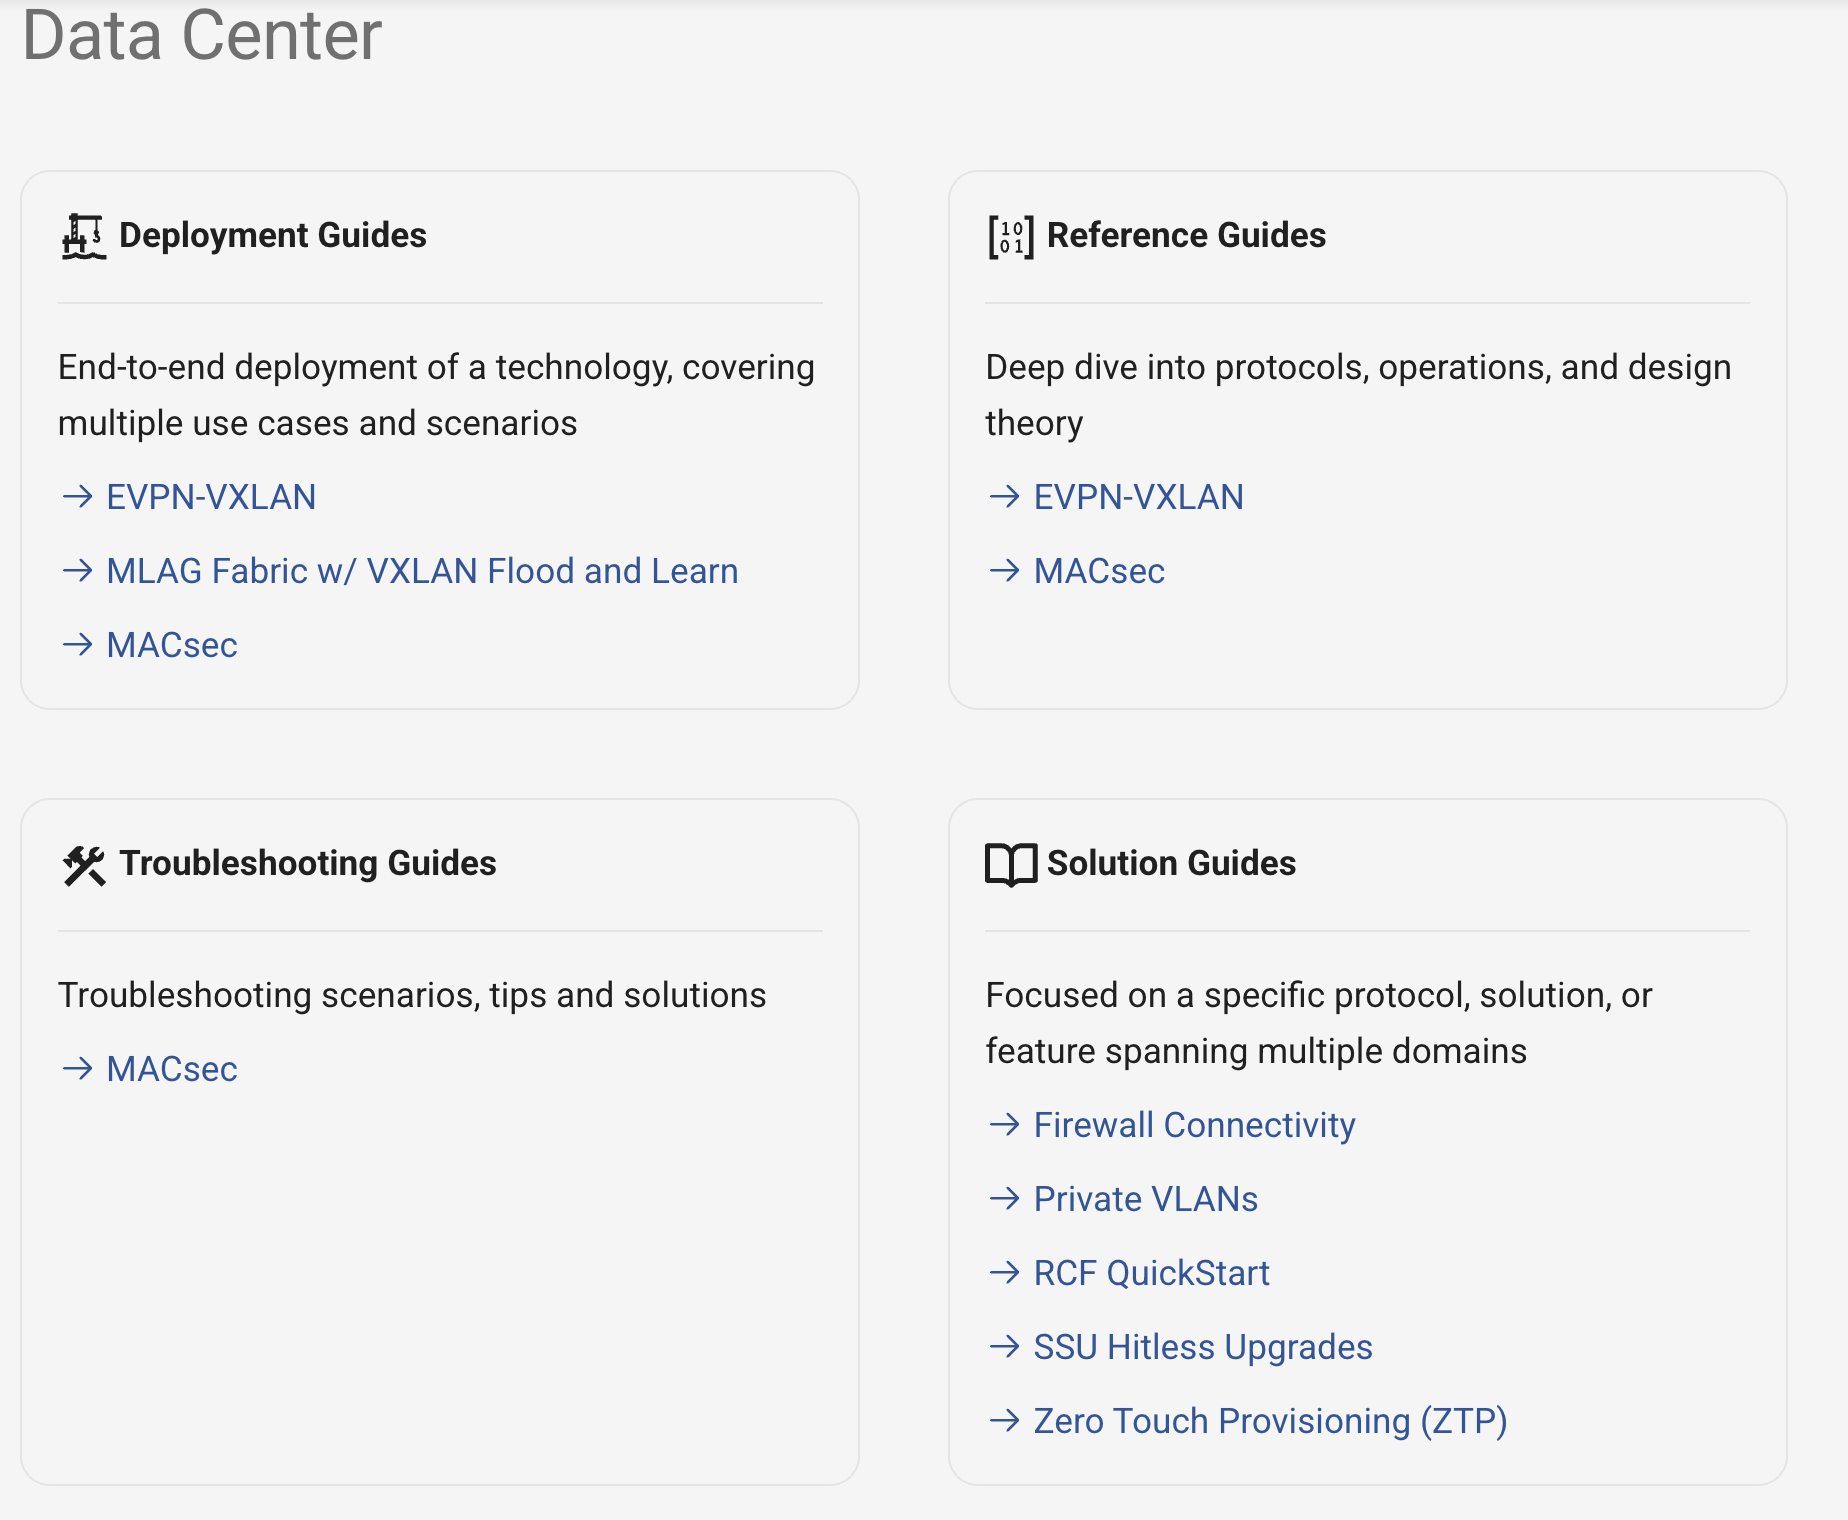
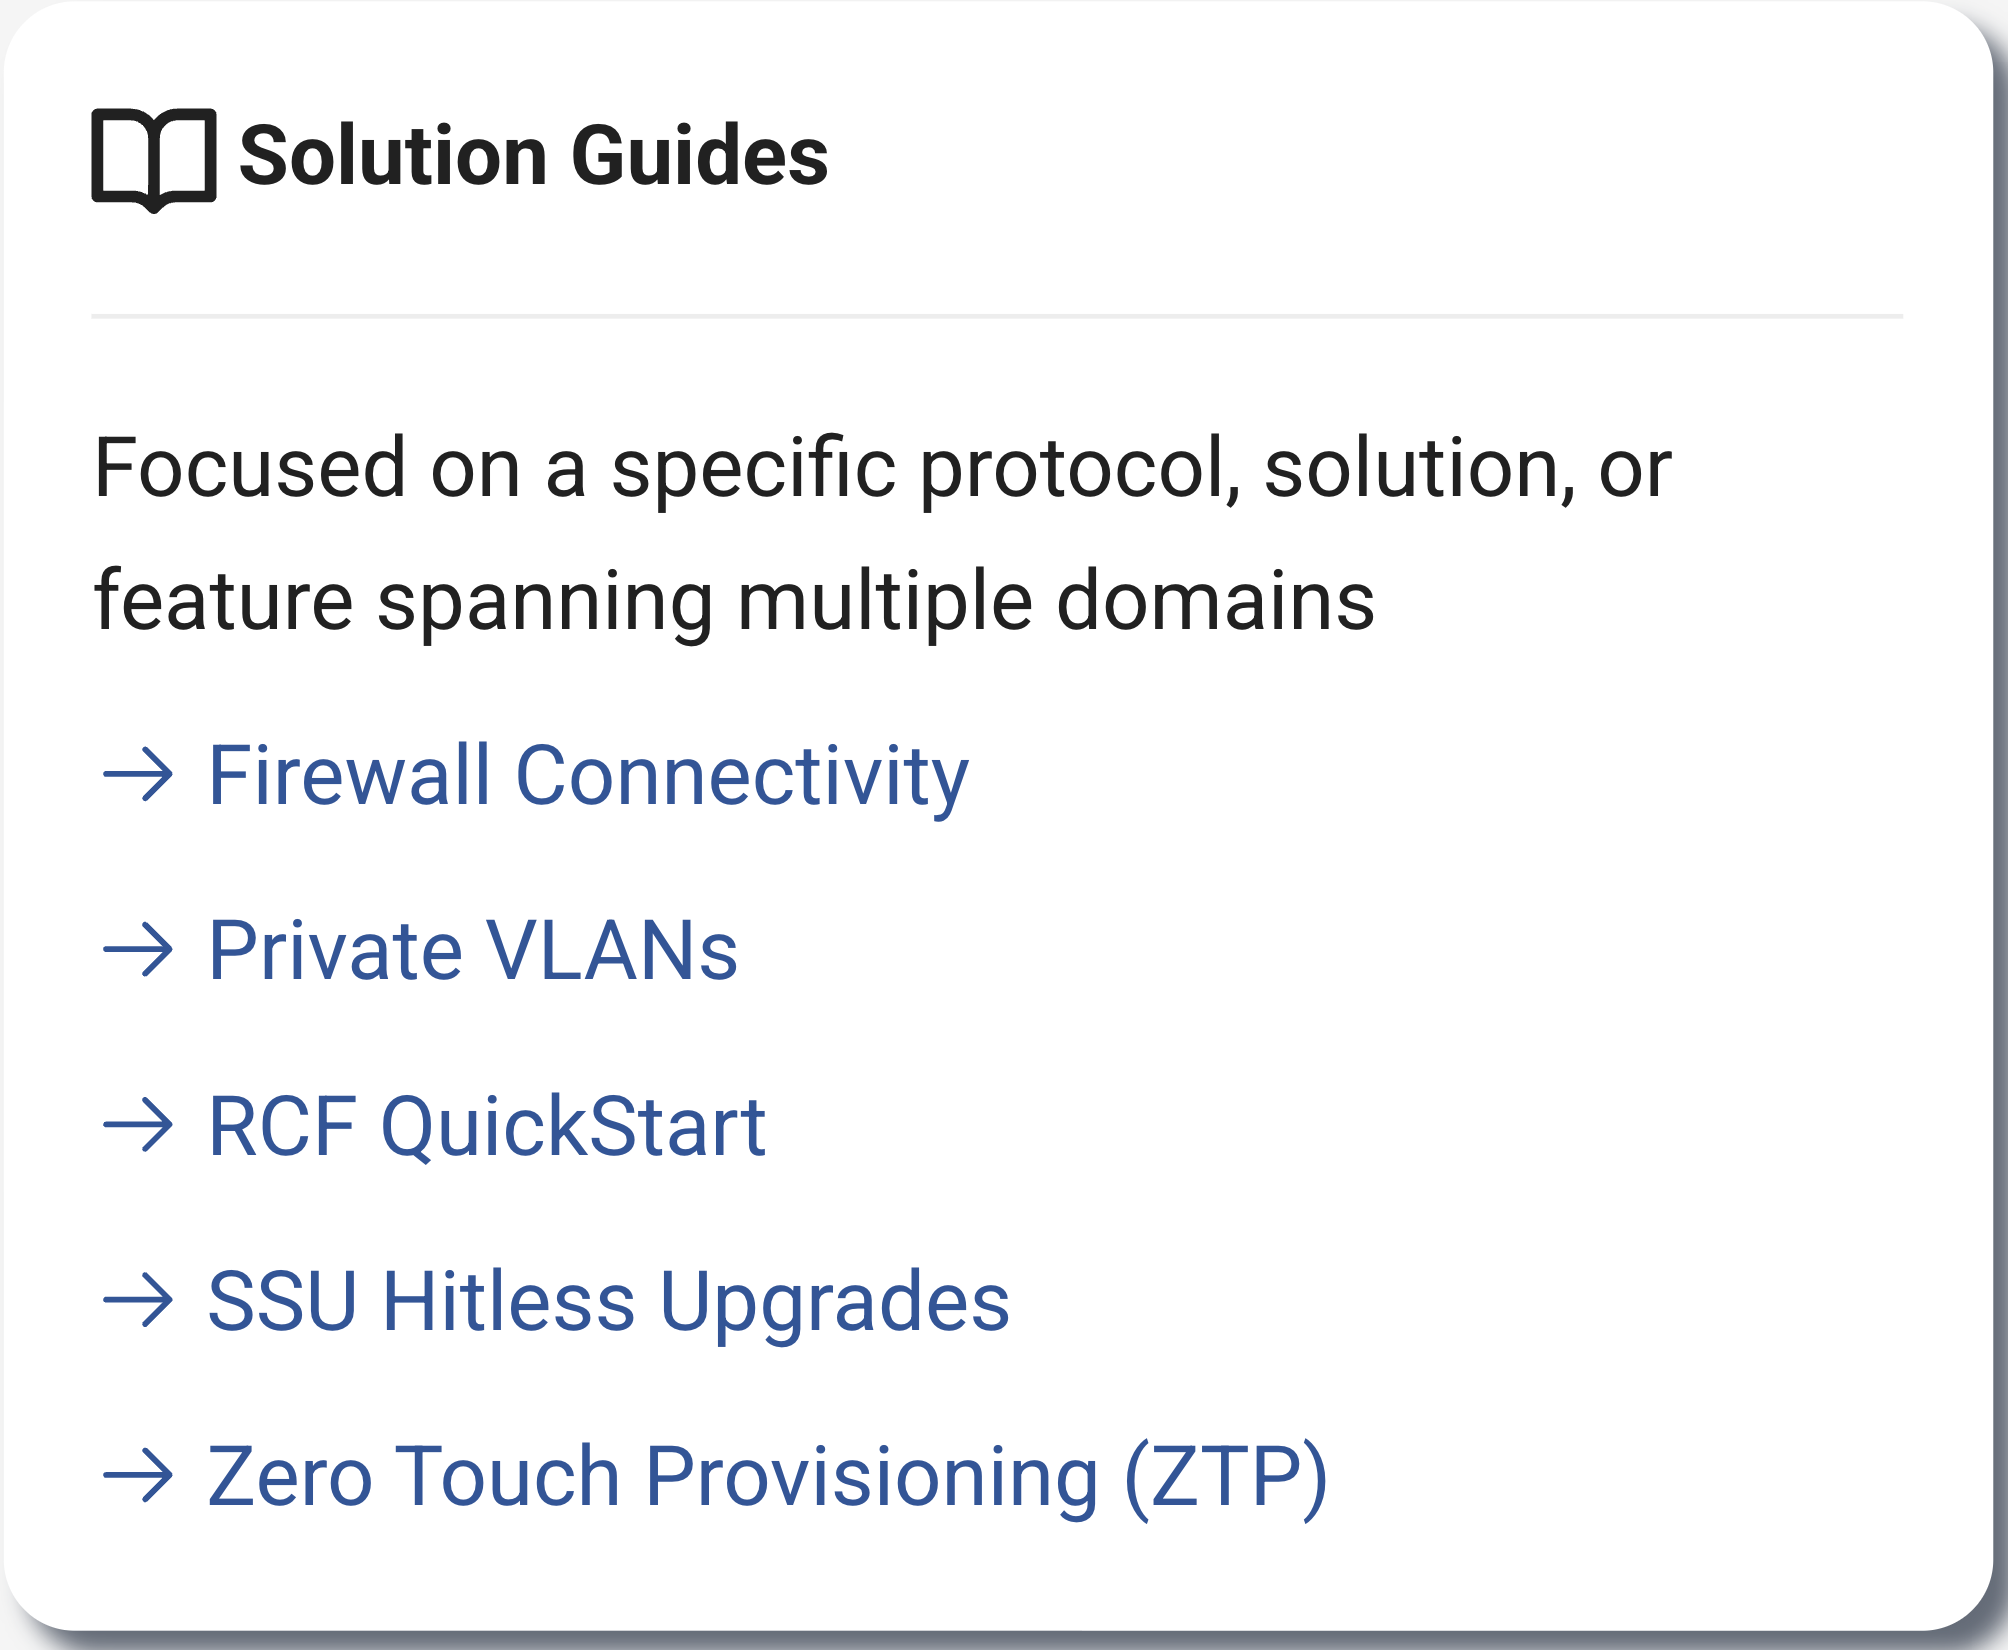
June Rough Draft 7

diff --git a/site/index.html b/site/index.html
@@ -987,7 +987,7 @@ Tired of clicking through multiple dashboards to piece together a troubleshootin
 <p><br></p>
 <p><strong>Interactive Tech Library Labs</strong></p>
 <p>Arista bridges the gap between theory and practice through new "Tech Library Labs". When reviewing a complex Deployment Guide topology, users don’t have to guess if their configuration will work. With a single click, engineers can instantiate a fully virtualized, pre-configured lab environment that mirrors the exact documentation topology. </p>
-<p>This hands-on sandbox allows you to safely test features, practice hitless upgrades, and validate automation scripts using virtual Extensible Operating System (vEOS) or containerized EOS (cEOS) instances before touching production hardware.</p>
+<p>This hands-on sandbox allows you to take topics discussed in the deployment guides and practice implimenting those exact configuration changes using containerized EOS (cEOS) instances, before touching production hardware.</p>
 <p><br></p>
 <figure>
   <img alt="First Pic" src="img/June-26-2.png" />
@@ -1115,7 +1115,7 @@ Tired of clicking through multiple dashboards to piece together a troubleshootin
 <li><strong>Transmission Failures and Throughput Issues in AP Firmware 21.1.0F-81</strong> — <a href="https://www.arista.com/en/support/advisories-notices/field-notice/24107-field-notice-0129" target="_blank">Field Notice 129</a> <br> <em>(June 16th, 2026)</em></li>
 </ul>
 <p><br></p>
-<p><a class="md-button md-button--primary" href="https://www.arista.com/en/support/advisories-notices" target="_blank">View All Latest Advisories &amp; Notices</a></p>
+<p><a class="md-button md-button--primary" href="https://www.arista.com/en/support/advisories-notices" target="_blank">View All of the Latest Advisories &amp; Notices</a></p>
 <hr />
 <h2 id="product-updates"><strong><em> Product Updates</em></strong><a class="headerlink" href="#product-updates" title="Permanent link">&para;</a></h2>
 <p><img alt="Image Placememt" src="img/Product_image.png" /></p>